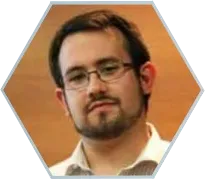
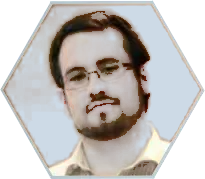
feat: remove conditional styling for Cavassa member image

diff --git a/components/team-section.tsx b/components/team-section.tsx
@@ -55,7 +55,7 @@ function Hexagon({ image, name }: { image: string; name: string }) {
       <img
         src={image || "/placeholder.svg"}
         alt={`Foto de ${name}`}
-        className={`h-full w-full object-cover ${name === "Alejandro Leonel Cavassa" ? "grayscale contrast-[0.96]" : ""}`}
+        className="h-full w-full object-cover"
         style={{ clipPath: "polygon(50% 0%, 100% 25%, 100% 75%, 50% 100%, 0% 75%, 0% 25%)" }}
       />
     </div>
